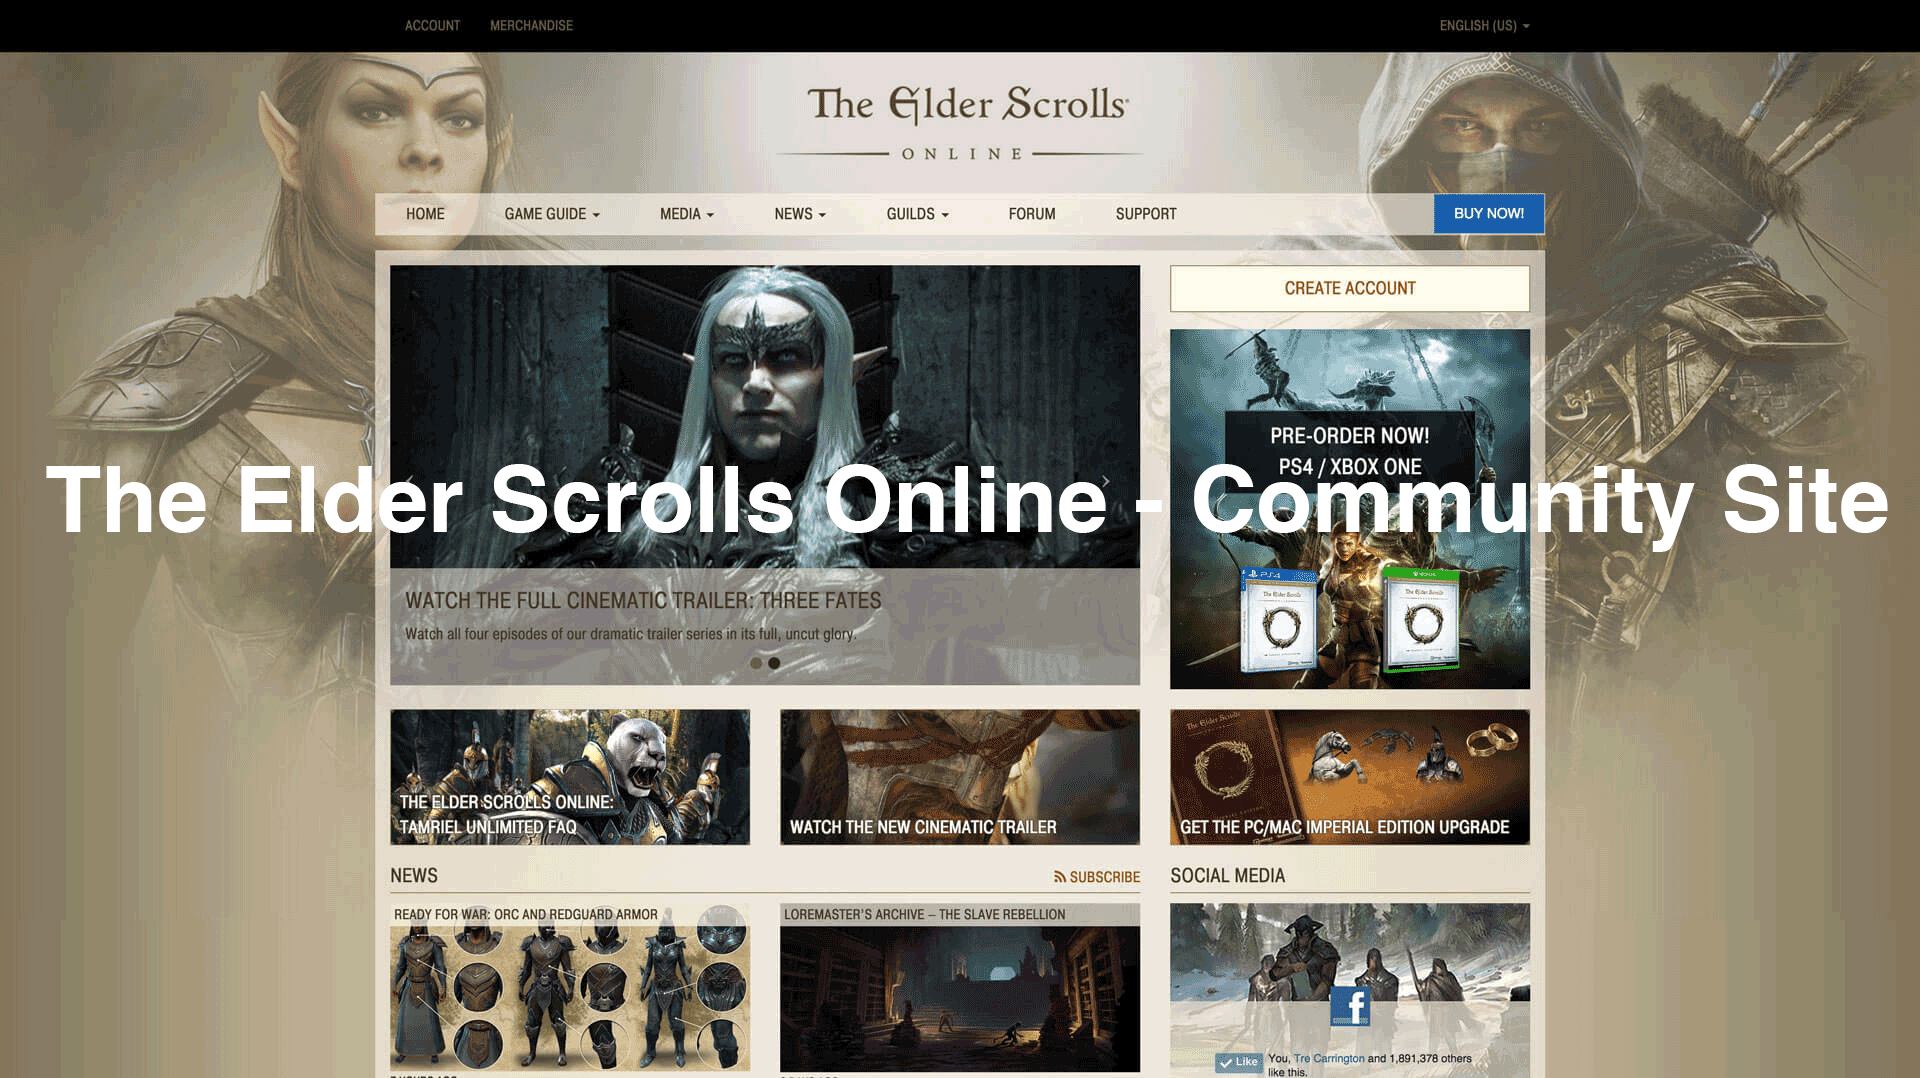
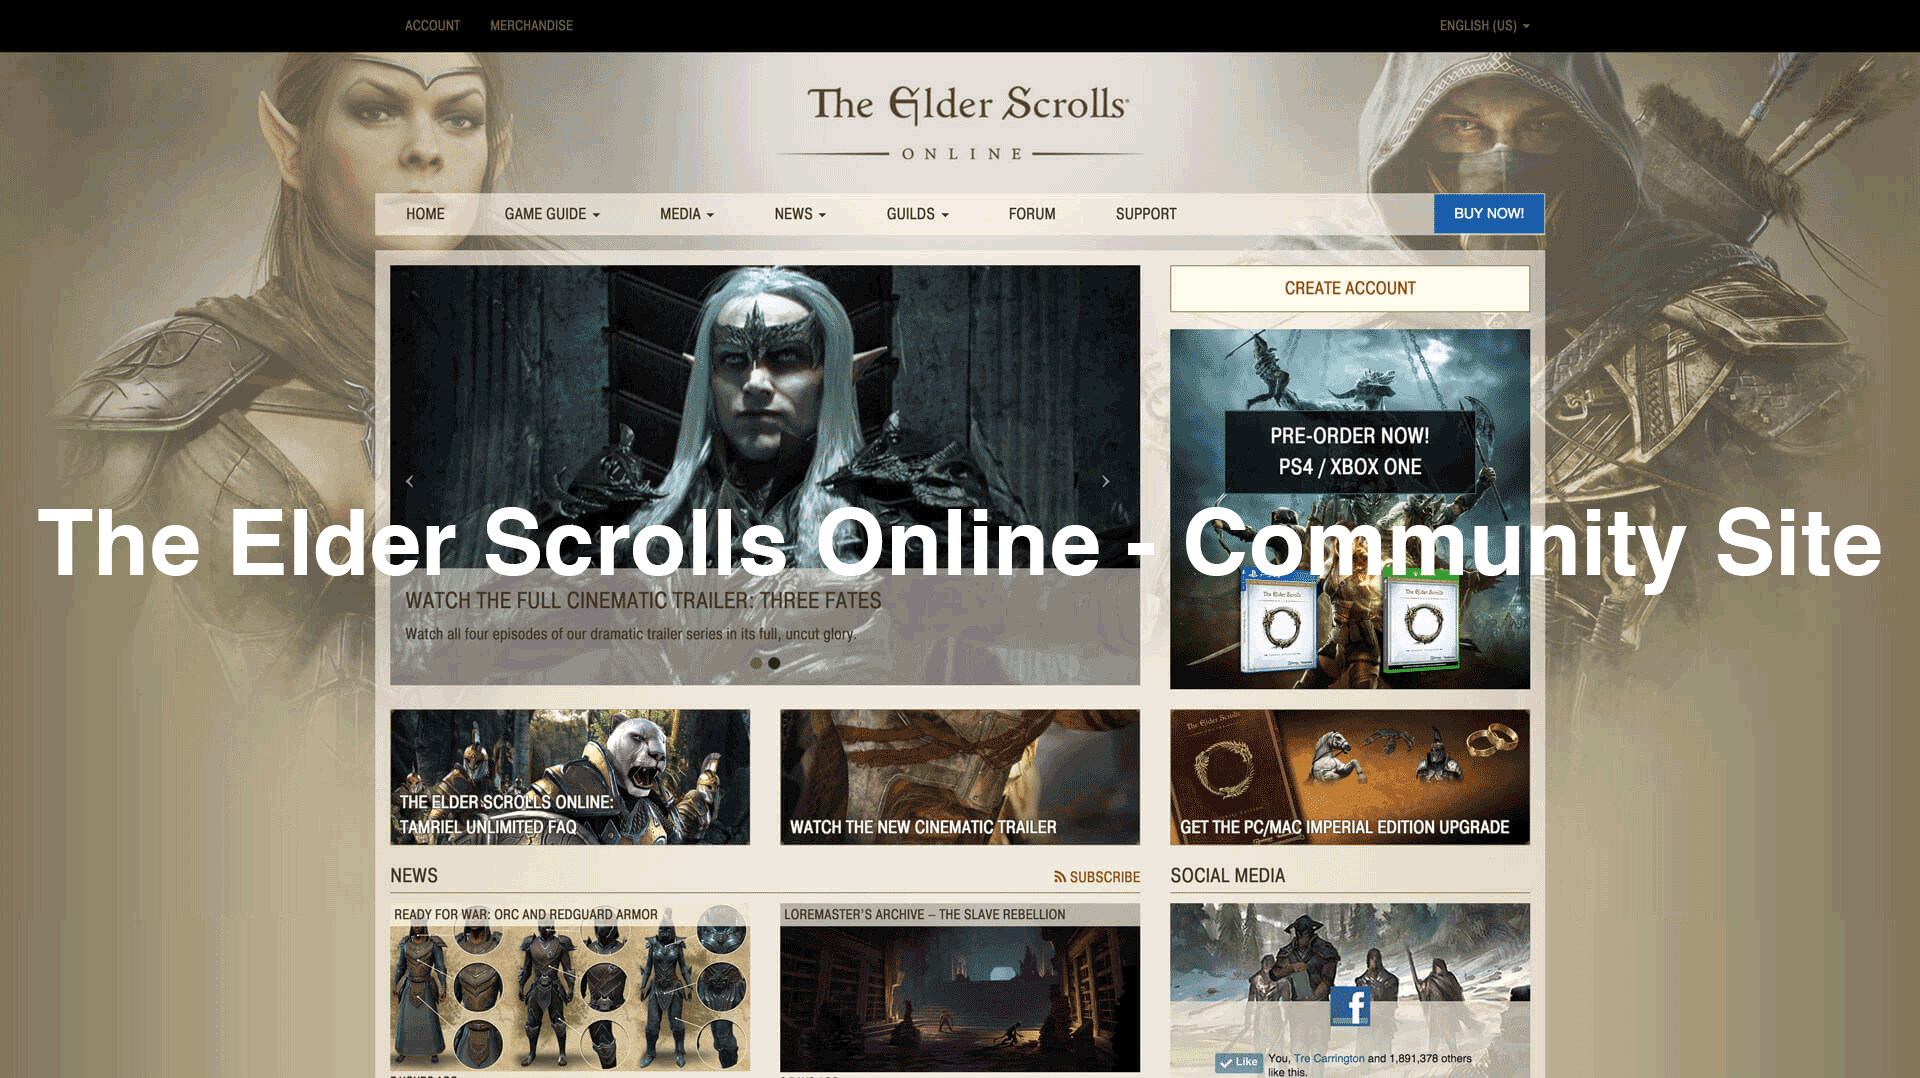
border on img

diff --git a/index.html b/index.html
@@ -81,12 +81,12 @@
       <div class="row">
         <div class="col s12 m12 l6">
           <div class="portfolio-container">
-            <a href="http://www.elderscrollsonline.com"><img class="responsive-img" src="./assets/images/eso3.png"></a>
+            <a href="http://www.elderscrollsonline.com"><img class="portfolio-img responsive-img" src="./assets/images/eso3.png"></a>
           </div>
         </div>
         <div class="col s12 m12 l6">
           <div class="portfolio-container">
-            <a href="http://theelderscrollsonline.tumblr.com"><img class="responsive-img" src="./assets/images/tumblr3.png"></a>
+            <a href="http://theelderscrollsonline.tumblr.com"><img class="portfolio-img responsive-img" src="./assets/images/tumblr3.png"></a>
           </div>
         </div>
       </div>

diff --git a/css/application.css b/css/application.css
@@ -23,7 +23,7 @@ body, html
 
 .about-container {
   background-color: white;
-  padding: 50px;
+  padding: 30px;
 }
 
 .about-container p {
@@ -58,12 +58,16 @@ body, html
 
 .footer-container {
   padding: 10px;
-  margin-top: 50px;
+  margin-top: 30px;
 }
 
 .section-header {
   background-color: white;
   padding: 10px 10px 10px 10px;
   width: 100%;
-  margin-bottom: 50px;
+  margin-bottom: 30px;
+}
+
+.portfolio-img {
+  border: 10px solid white
 }
